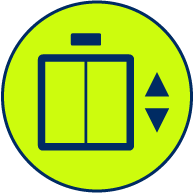
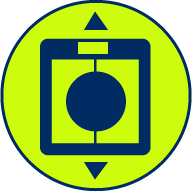
Added floor indicator to floor selection button. Restored gesture intersection on whole panel due to gesture issues when releasing from drag. Buddy: Scott

diff --git a/ios/ios_src/InteriorsExplorer/View/InteriorsExplorerView.mm b/ios/ios_src/InteriorsExplorer/View/InteriorsExplorerView.mm
@@ -24,6 +24,16 @@ namespace
     return m_pInterop;
 }
 
+- (UIColor*) textColorNormal
+{
+    return [UIColor colorWithRed:(18.0f/255.0f) green:(86.0f/255.0f) blue:(176.0f/255.0f) alpha:1.0f];
+}
+
+- (UIColor*) textColorHighlighted
+{
+    return [UIColor colorWithRed:(205.0f/255.0f) green:(252.0f/255.0f) blue:(13.0f/255.0f) alpha:1.0f];;
+}
+
 - (id) initWithParams:(float)width :(float)height :(float)pixelScale
 {
     if (self = [super init])
@@ -59,6 +69,16 @@ namespace
         [self.pFloorChangeButton setBackgroundImage:ExampleApp::Helpers::ImageHelpers::LoadImage(@"floor_selection_button_down") forState:UIControlStateSelected];
         m_draggingFloorButton = NO;
         [self.pFloorPanel addSubview:self.pFloorChangeButton];
+        
+        const float upperPadding = 3.0f;
+        self.pFloorOnButtonLabel = [[[UILabel alloc] initWithFrame:CGRectMake(0, upperPadding, 64, 64-upperPadding)] autorelease];
+        self.pFloorOnButtonLabel.lineBreakMode = NSLineBreakByClipping;
+        self.pFloorOnButtonLabel.adjustsFontSizeToFitWidth = NO;
+        self.pFloorOnButtonLabel.textColor = [UIColor whiteColor];
+        self.pFloorOnButtonLabel.textAlignment = NSTextAlignmentCenter;
+        self.pFloorOnButtonLabel.font = [UIFont boldSystemFontOfSize:12.0f];
+        self.pFloorChangeButton.userInteractionEnabled = NO;
+        [self.pFloorChangeButton addSubview:self.pFloorOnButtonLabel];
         
         ImmediatePanGestureRecognizer* buttonDrag = [[ImmediatePanGestureRecognizer alloc] initWithTarget:self action:@selector(dragButton:)];
         [self.pFloorChangeButton addGestureRecognizer:buttonDrag];
@@ -122,6 +142,7 @@ namespace
         m_touchEnabled = NO;
         m_floorSelectionEnabled = NO;
         
+        [self hideFloorLabels];
         [self setHidden:YES];
     }
     
@@ -179,7 +200,7 @@ namespace
     }
     
     CGPoint touchLocation = [touch locationInView:self];
-    if (CGRectContainsPoint(self.pFloorChangeButton.frame, touchLocation) && m_floorSelectionEnabled)
+    if (CGRectContainsPoint(self.pFloorPanel.frame, touchLocation) && m_floorSelectionEnabled)
         return YES;
     if (CGRectContainsPoint(self.pDetailsPanel.frame, touchLocation))
         return YES;
@@ -194,6 +215,13 @@ namespace
 - (void) setSelectedFloor:(int)floorIndex
 {
     Eegeo_ASSERT(floorIndex >= 0 && floorIndex < m_tableViewFloorNames.size(), "Invalid floorindex - Out of range 0 << %d << %d", floorIndex, m_tableViewFloorNames.size());
+    [self refreshFloorIndicator:floorIndex];
+    //error.
+    // FIX THAT.
+    if(!m_draggingFloorButton)
+    {
+        [self moveButtonToFloorIndex:floorIndex :YES];
+    }
 }
 
 - (void) updateFloors: (const std::vector<std::string>&) floorShortNames withCurrentFloor: (int) currentlySelectedFloorIndex;
@@ -206,6 +234,7 @@ namespace
     [self setNeedsLayout];
     [self layoutIfNeeded];
     
+    [self refreshFloorIndicator:currentlySelectedFloorIndex];
     [self moveButtonToFloorIndex:currentlySelectedFloorIndex :NO];
 }
 
@@ -257,6 +286,12 @@ namespace
     m_floorSelectionEnabled= (floorCount > 1);
     self.pFloorPanel.hidden = !m_floorSelectionEnabled;
     self.pFloorPanel.userInteractionEnabled = self.pFloorChangeButton.userInteractionEnabled = m_floorSelectionEnabled;
+}
+
+- (void) refreshFloorIndicator:(int)floorIndex
+{
+    int nameIndex = static_cast<int>(m_tableViewFloorNames.size()-1) - floorIndex;
+    self.pFloorOnButtonLabel.text = [NSString stringWithCString:m_tableViewFloorNames.at(nameIndex).c_str() encoding:NSUTF8StringEncoding];
 }
 
 - (int) reverseIndex:(int)floorIndex
@@ -407,11 +442,11 @@ namespace
                             recognizer.state != UIGestureRecognizerStateFailed &&
                             recognizer.state != UIGestureRecognizerStateCancelled;
     m_floorButtonParameter = 1.0f - (float)(self.pFloorChangeButton.frame.origin.y / (self.pFloorPanel.frame.size.height-self.pFloorChangeButton.frame.size.height));
+    
     if(m_draggingFloorButton)
     {
         m_pInterop->SetFloorSelectionDrag(m_floorButtonParameter);
         [self.pFloorChangeButton setSelected:YES];
-        
     }
     else
     {
@@ -419,8 +454,8 @@ namespace
         int floorIndex = (int)roundf(m_floorButtonParameter*floorCount);
         m_pInterop->SelectFloor(floorIndex);
         
-        [self.pFloorChangeButton setSelected:NO];
         [self moveButtonToFloorIndex:floorIndex :YES];
+        [self.pFloorChangeButton setSelected:NO];
         [self hideFloorLabels];
     }
 }
@@ -431,6 +466,8 @@ namespace
     {
         [item hideName];
     }
+    
+    self.pFloorOnButtonLabel.textColor = [self textColorNormal];
 }
 
 - (void) showFloorLabels
@@ -439,6 +476,8 @@ namespace
     {
         [item showName];
     }
+    
+    self.pFloorOnButtonLabel.textColor = [self textColorHighlighted];
 }
 
 - (void) moveButtonToFloorIndex:(int)floorIndex :(BOOL)shouldAnimate

diff --git a/ios/ios_src/InteriorsExplorer/View/InteriorsExplorerView.h b/ios/ios_src/InteriorsExplorer/View/InteriorsExplorerView.h
@@ -66,8 +66,13 @@
 
 - (void) refreshFloorViews;
 
+// NOTE: Replace these once integrated with search ux colour scheme.
+- (UIColor*) textColorNormal;
+- (UIColor*) textColorHighlighted;
+
 @property(nonatomic, retain) UIView* pFloorPanel;
 @property(nonatomic, retain) UIButton* pFloorChangeButton;
+@property(nonatomic, retain) UILabel* pFloorOnButtonLabel;
 
 @property(nonatomic, retain) UIView* pDetailsPanel;
 @property(nonatomic, retain) UIImageView* pDetailsPanelBackground;
